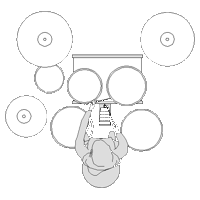
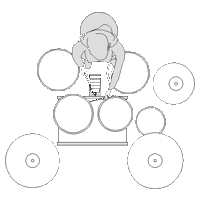
improve rider

diff --git a/application/vue/src/components/rider/RiderComp.tsx b/application/vue/src/components/rider/RiderComp.tsx
@@ -1,8 +1,8 @@
-import React, { useCallback, useEffect, useState } from "react";
+import React, { useCallback, useEffect, useMemo, useState } from "react";
 import { TargetContainer } from "./TargetContainer.tsx";
-import { Col, ConfigProvider, Row, Typography } from "antd";
+import { Col, ConfigProvider, List, Row, Typography } from "antd";
 import { SourceContainerAll } from "./SourceContainer.tsx";
-import { Inventory, InventoryElement } from "jc-shared/rider/inventory.ts";
+import { extraEckig, extraRund, Inventory, InventoryElement } from "jc-shared/rider/inventory.ts";
 import { BoxParams } from "jc-shared/rider/rider.ts";
 import map from "lodash/map";
 import filter from "lodash/filter";
@@ -12,13 +12,21 @@ import noop from "lodash/noop";
 import { ItemTypes } from "./types.ts";
 import find from "lodash/find";
 import { Box } from "./Box.tsx";
+import { v4 as uuidv4 } from "uuid";
 
 export function RiderComp({ targetBoxes, setTargetBoxes }: { targetBoxes?: BoxParams[]; setTargetBoxes?: (boxes: BoxParams[]) => void }) {
   const [sourceBoxes, setSourceBoxes] = useState<InventoryElement[]>(Inventory);
 
   useEffect(() => {
     const boxIds = map(targetBoxes, "id");
-    setSourceBoxes(filter(Inventory, (inv) => !boxIds.includes(inv.id))); // remove added box from predefined sources
+    const sources = filter(Inventory, (inv) => !boxIds.includes(inv.id));
+    if (!find(sources, (elem) => elem.id.startsWith("Extra Eckig"))) {
+      sources.push({ ...extraEckig, id: "Extra Eckig" + uuidv4() });
+    }
+    if (!find(sources, (elem) => elem.id.startsWith("Extra Rund"))) {
+      sources.push({ ...extraRund, id: "Extra Rund" + uuidv4() });
+    }
+    setSourceBoxes(sources); // remove added box from predefined sources
   }, [targetBoxes]);
 
   const [dragging, setDragging] = useState<BoxParams | null>(null);
@@ -73,6 +81,8 @@ export function RiderComp({ targetBoxes, setTargetBoxes }: { targetBoxes?: BoxPa
     [setTargetBoxes, targetBoxes],
   );
 
+  const itemsWithComment = useMemo(() => filter(targetBoxes, (box) => !!box.comment), [targetBoxes]);
+
   return (
     <DndContext onDragStart={onDragStart} onDragEnd={onDragEnd}>
       <DragOverlay>{dragging ? <Box item={dragging} callback={noop} /> : null}</DragOverlay>
@@ -95,7 +105,7 @@ export function RiderComp({ targetBoxes, setTargetBoxes }: { targetBoxes?: BoxPa
         </Col>
       </Row>
       <Row gutter={16}>
-        <Col span={24}>
+        <Col span={8}>
           <Typography.Title level={5}>Hilfe</Typography.Title>
           <ul>
             <li>Ziehe Elemente von links nach rechts</li>
@@ -103,6 +113,19 @@ export function RiderComp({ targetBoxes, setTargetBoxes }: { targetBoxes?: BoxPa
             <li>Rechts kannst Du mit Rechtsklick bearbeiten</li>
             <li>Speichern nicht vergessen!</li>
           </ul>
+        </Col>
+        <Col span={16}>
+          <Typography.Title level={5}>Infos</Typography.Title>
+          <List
+            itemLayout="horizontal"
+            dataSource={itemsWithComment}
+            renderItem={(item) => (
+              <List.Item>
+                <List.Item.Meta title={item.title} />
+                {item.comment}
+              </List.Item>
+            )}
+          />
         </Col>
       </Row>
     </DndContext>

diff --git a/application/shared/rider/inventory.ts b/application/shared/rider/inventory.ts
@@ -12,6 +12,35 @@ export interface InventoryElement {
   category: Category;
 }
 
+export const extraEckig: InventoryElement = {
+  category: "Extra",
+  id: "Extra Eckig 1",
+  title: "Eigener Inhalt",
+  width: 50,
+  height: 50,
+  level: 1,
+};
+
+export const extraRund: InventoryElement = {
+  category: "Extra",
+  id: "Extra Rund 2",
+  title: "Runder Inhalt",
+  width: 50,
+  height: 50,
+  level: 1,
+  isCircle: true,
+};
+
+const drums: InventoryElement = {
+  category: "Drums",
+  id: "DrumsYamaha",
+  title: "Drums (Yamaha)",
+  width: 200,
+  height: 200,
+  level: 0,
+  img: { src: "Drums.png", width: 200, height: 200 },
+};
+
 export const Inventory: InventoryElement[] = [
   {
     category: "Keys",
@@ -44,24 +73,9 @@ export const Inventory: InventoryElement[] = [
     img: { src: "Nord.png" },
     photo: { src: "NordStage.png" },
   },
-  {
-    category: "Drums",
-    id: "DrumsYamaha",
-    title: "Drums (Yamaha)",
-    width: 200,
-    height: 200,
-    level: 0,
-    img: { src: "Drums.png", width: 200, height: 200 },
-  },
-  {
-    category: "Drums",
-    id: "DrumsGretsch",
-    title: "Drums (Gretsch)",
-    width: 200,
-    height: 200,
-    level: 0,
-    img: { src: "Drums.png", width: 200, height: 200 },
-  },
+  { ...drums, id: "DrumsYamaha", title: "Drums (Yamaha)" },
+  { ...drums, id: "DrumsGretsch", title: "Drums (Gretsch)" },
+  { ...drums, id: "DrumsCustom", title: "Drums (Eigenes Set)" },
   {
     category: "Drums",
     id: "PercussionSet",
@@ -92,6 +106,6 @@ export const Inventory: InventoryElement[] = [
   },
   { category: "Guitar", id: "Jazzchorus", title: "Roland Jazzchorus", width: 55, height: 24, level: 0, photo: { src: "Roland.png" } },
   { category: "Guitar", id: "Polytone 12", title: 'Polytone Amp 12"', width: 40, height: 35, level: 0, photo: { src: "Polytone.png" } },
-  { category: "Extra", id: "Extra", title: "Eigener Inhalt", width: 50, height: 50, level: 1 },
-  { category: "Extra", id: "Extra", title: "Runder Inhalt", width: 50, height: 50, level: 1, isCircle: true },
+  extraEckig,
+  extraRund,
 ];

diff --git a/application/vue/src/components/rider/Box.tsx b/application/vue/src/components/rider/Box.tsx
@@ -10,14 +10,6 @@ const styleInner: CSSProperties = {
   backgroundColor: "white",
 };
 
-const styleText: CSSProperties = {
-  textAlign: "center",
-  fontSize: "10px",
-  textOverflow: "ellipsis",
-  whiteSpace: "nowrap",
-  overflow: "hidden",
-};
-
 export function Box({ item, callback }: { item: BoxParams; callback: (open: boolean) => void }) {
   const [degree, setDegree] = useState<number>(0);
   const [level, setLevel] = useState<number>(0);
@@ -26,6 +18,15 @@ export function Box({ item, callback }: { item: BoxParams; callback: (open: bool
   const [title, setTitle] = useState<string>("");
   const [comment, setComment] = useState<string>("");
   const isExtra = useMemo(() => item.category === "Extra", [item]);
+
+  const styleText: CSSProperties = useMemo(
+    () => ({
+      textAlign: "center",
+      fontSize: "10px",
+      lineHeight: `${height}px`,
+    }),
+    [height],
+  );
 
   useEffect(() => {
     setDegree(item.degree);
@@ -159,7 +160,9 @@ export function Box({ item, callback }: { item: BoxParams; callback: (open: bool
         {item.img ? (
           <img src={`/riderimg/${item.img.src}`} width={item.img.width} height={item.img.height} alt={item.title} />
         ) : (
-          <div style={styleText}>{title}</div>
+          <div style={styleText}>
+            <span style={{ display: "inline-block", verticalAlign: "middle", lineHeight: "normal" }}>{title}</span>
+          </div>
         )}
       </div>
     </Popover>

diff --git a/application/rider/src/RiderApp.tsx b/application/rider/src/RiderApp.tsx
@@ -1,5 +1,5 @@
 import { QueryClient, QueryClientProvider } from "@tanstack/react-query";
-import JazzContent from "@/JazzContent.tsx";
+import RiderContent from "@/RiderContent.tsx";
 import { App, ConfigProvider, theme } from "antd";
 import "../../vue/src/app/JC-styles.css";
 import locale_de from "antd/locale/de_DE";
@@ -16,7 +16,7 @@ const queryClient = new QueryClient({
   },
 });
 
-function JazzclubApp() {
+function RiderApp() {
   const [darkMode, setDarkMode] = useState(darkModePreference.matches);
   darkModePreference.addEventListener("change", (e) => setDarkMode(e.matches));
   const success = "#28a745";
@@ -47,7 +47,7 @@ function JazzclubApp() {
       >
         <App>
           <GlobalContext.Provider value={{ isDarkMode: false, isCompactMode: false }}>
-            <JazzContent />
+            <RiderContent />
           </GlobalContext.Provider>
         </App>
       </ConfigProvider>
@@ -55,4 +55,4 @@ function JazzclubApp() {
   );
 }
 
-export default JazzclubApp;
+export default RiderApp;

diff --git a/application/shared/rider/rider.ts b/application/shared/rider/rider.ts
@@ -36,6 +36,7 @@ export class PrintableBox implements BoxParams {
   top: number = 0;
   width: number = 0;
   img: { src: string; width?: number; height?: number } | undefined = undefined;
+  isCircle = false;
 
   constructor(params: BoxParams) {
     Object.assign(this, params);
@@ -48,8 +49,12 @@ export class PrintableBox implements BoxParams {
   get imgStyle() {
     return `width: ${this.img?.width}px; height: ${this.img?.height}px;`;
   }
-
-  get divStyleForBox() {
-    return this.divStyleForImg + "text-align: center; font-size: 10px; border: 0.2px solid gray;";
+  get divStyleForText() {
+    return (
+      this.divStyleForImg +
+      `line-height: ${this.height}px;` +
+      "text-align: center; font-size: 10px; border: 0.2px solid gray;" +
+      `border-radius: ${this.isCircle ? "50%" : 0};`
+    );
   }
 }

diff --git a/application/vue/src/components/rider/SourceElement.tsx b/application/vue/src/components/rider/SourceElement.tsx
@@ -1,18 +1,16 @@
 import { List } from "antd";
-import { v4 as uuidv4 } from "uuid";
 import { InventoryElement } from "jc-shared/rider/inventory.ts";
 import { useDraggable } from "@dnd-kit/core";
 import { useMemo } from "react";
 import { ItemTypes } from "./types.ts";
 
 export function SourceElement({ item }: { item: InventoryElement }) {
-  const uuid = useMemo(() => uuidv4(), []);
   const isExtra = useMemo(() => item.category === "Extra", [item.category]);
   const { attributes, listeners, setNodeRef } = useDraggable({
-    id: isExtra ? item.id + uuid : item.id,
+    id: item.id,
     data: {
       type: ItemTypes.SourceElement,
-      item: isExtra ? { ...item, id: item.id + uuid, left: 0, top: 0 } : item,
+      item: isExtra ? { ...item, id: item.id, left: 0, top: 0 } : item,
     },
   });
 

diff --git a/application/eslint.config.js b/application/eslint.config.js
@@ -54,7 +54,18 @@ export default tseslint.config(
       "react/no-unescaped-entities": 0,
       "react/prop-types": 0,
       "react/display-name": 0,
+      "react/jsx-max-depth": 0,
+      "react/forbid-component-props": 0,
       "no-sync": "off",
+      "react/jsx-no-bind": "off",
+      "react/jsx-filename-extension": "off",
+      "react/jsx-no-literals": "off",
+      "react/require-default-props": "off",
+      "react/no-multi-comp": "off",
+      "react/jsx-props-no-spreading": "off",
+      "react/destructuring-assignment": "off",
+      "react/jsx-handler-names": "off",
+      "react/no-unstable-nested-components": "off",
       "lodash/prefer-lodash-method": [
         "error",
         {

diff --git a/application/rider/src/RiderContent.tsx b/application/rider/src/RiderContent.tsx
@@ -4,7 +4,7 @@ import { RiderStandalone } from "@/RiderStandalone.tsx";
 
 const { Header, Content } = Layout;
 
-const JazzContent: React.FC = () => {
+const RiderContent: React.FC = () => {
   const {
     token: { colorBgContainer },
   } = theme.useToken();
@@ -25,4 +25,4 @@ const JazzContent: React.FC = () => {
   );
 };
 
-export default JazzContent;
+export default RiderContent;

diff --git a/application/rider/src/RiderStandalone.tsx b/application/rider/src/RiderStandalone.tsx
@@ -12,7 +12,7 @@ import DatumUhrzeit from "jc-shared/commons/DatumUhrzeit.ts";
 const titel = "Jazzclub Konzert";
 export const RiderStandalone: FC = () => {
   const url = window.location.pathname.replace("/rider/", "");
-
+  document.title = titel;
   const queryClient = useQueryClient();
   const [targetBoxes, setTargetBoxes] = useState<BoxParams[]>([]);
 

diff --git a/application/rider/src/main.tsx b/application/rider/src/main.tsx
@@ -1,5 +1,5 @@
 import React from "react";
 import ReactDOM from "react-dom/client";
-import JazzclubApp from "@/JazzclubApp.tsx";
+import RiderApp from "@/RiderApp.tsx";
 
-ReactDOM.createRoot(document.getElementById("root") as HTMLElement).render(<JazzclubApp />);
+ReactDOM.createRoot(document.getElementById("root") as HTMLElement).render(<RiderApp />);

diff --git a/application/backend/rest/riders.ts b/application/backend/rest/riders.ts
@@ -23,6 +23,7 @@ app.post("/riders", [checkOrgateam], (req: Request, res: Response) => {
     }
     store.saveRider(rider, req.user as User);
     resToJson(res, rider);
+    return;
   }
   resToJson(res, {});
 });
